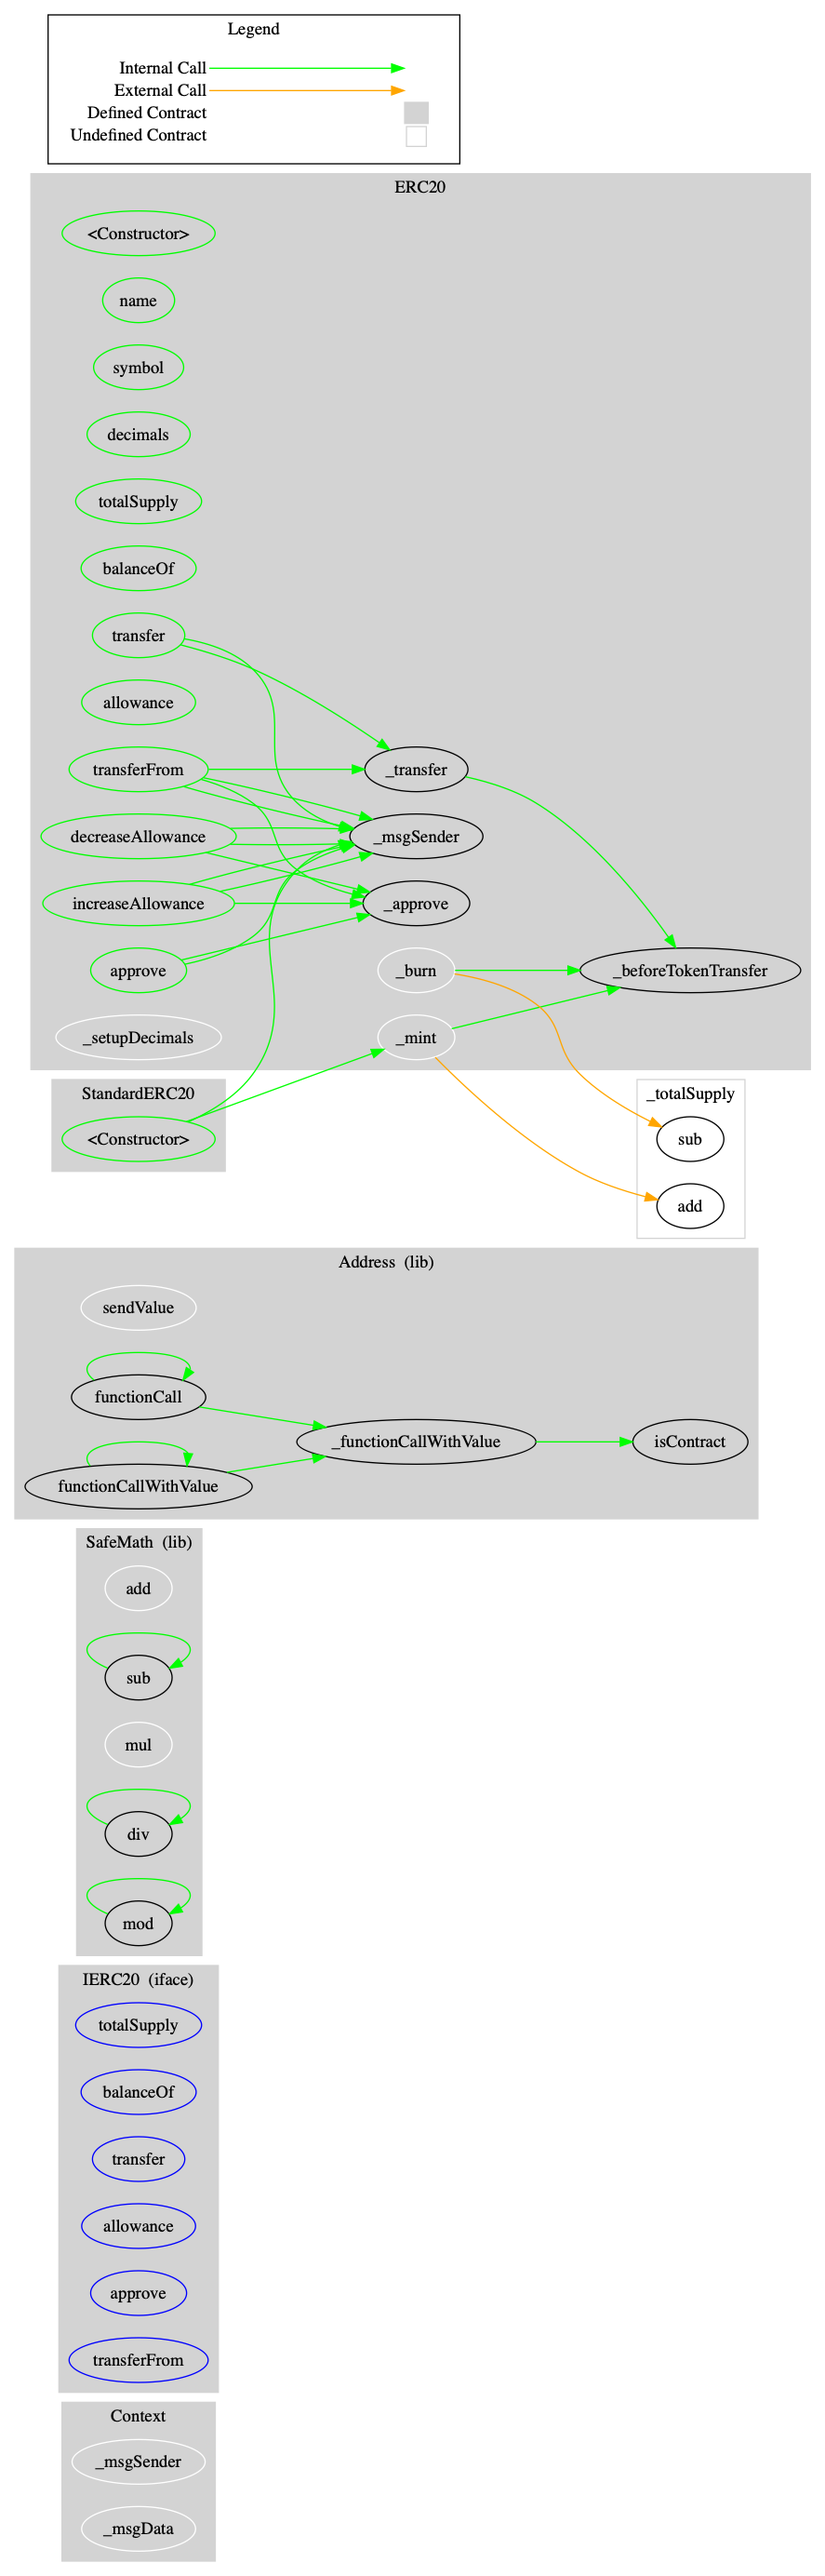
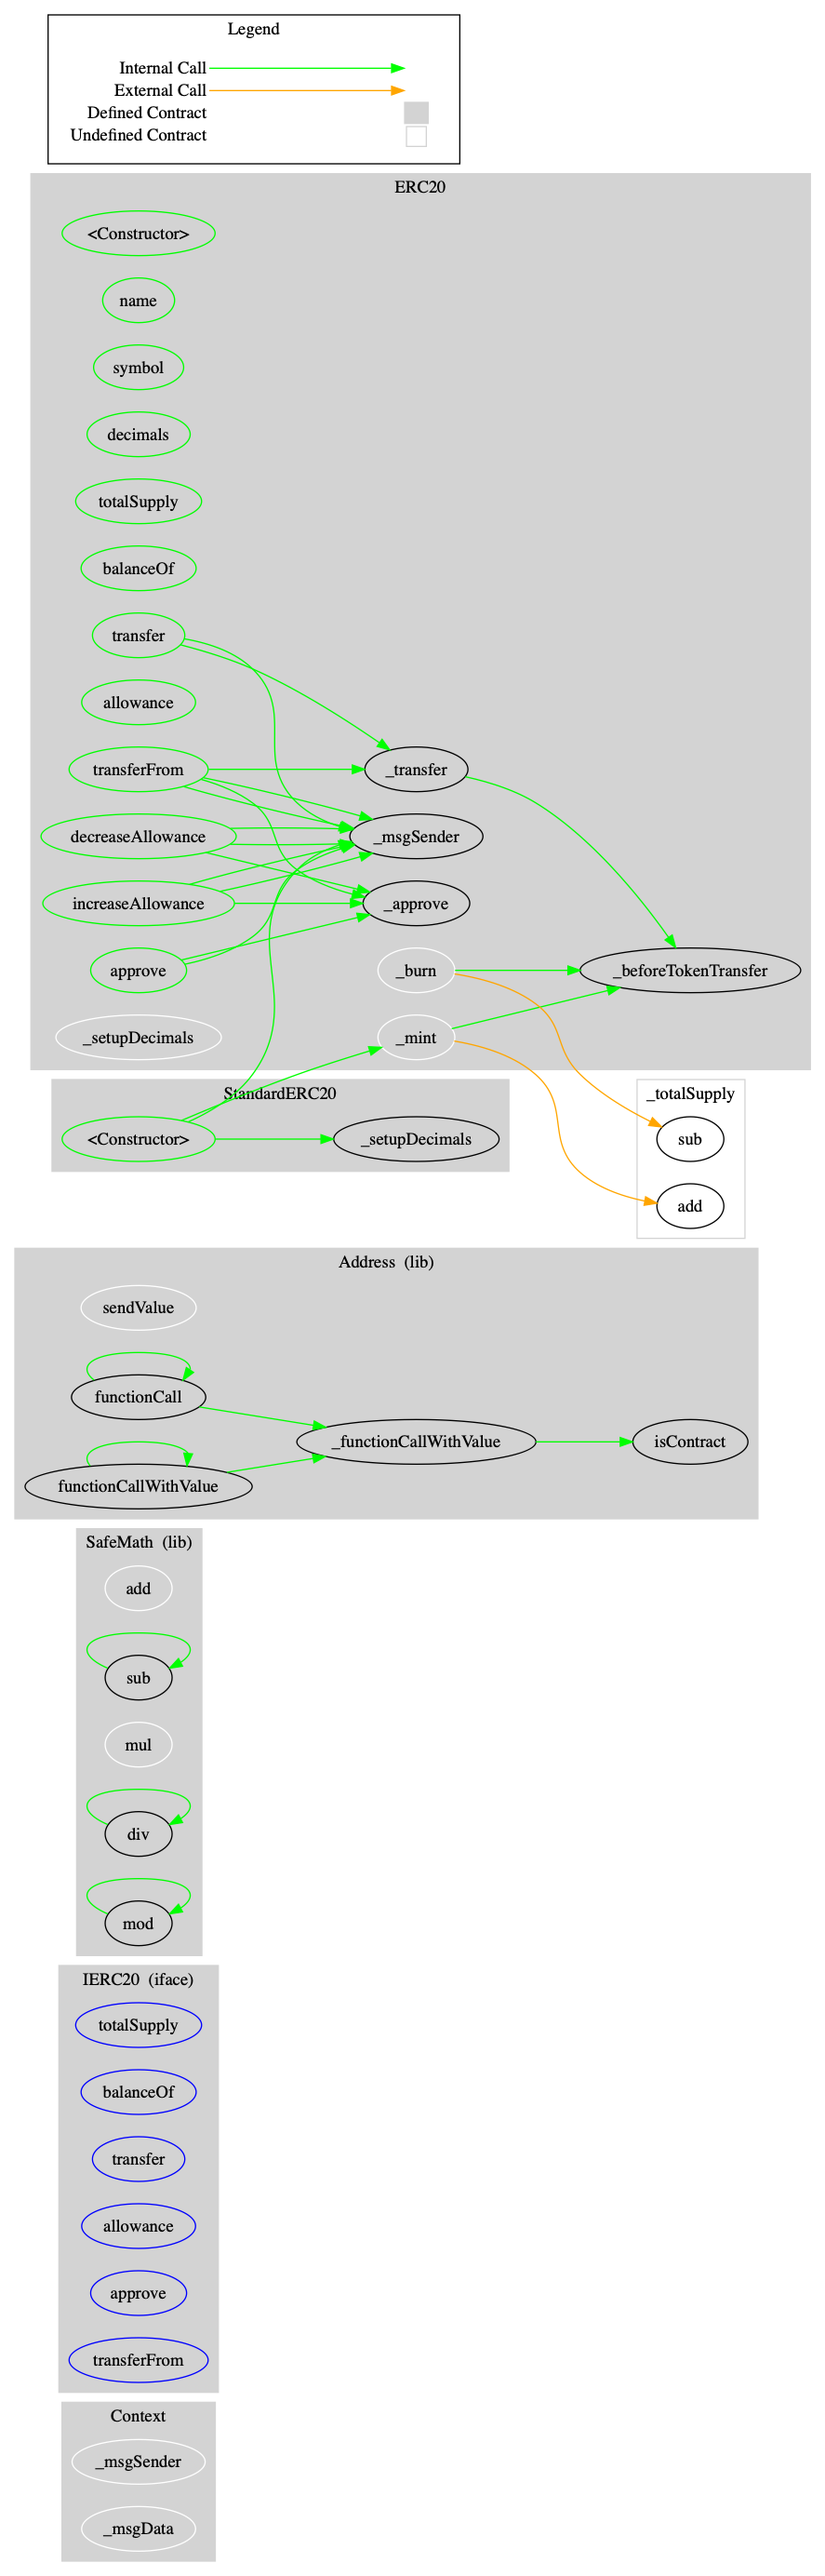
feat: make standard token able to set decimals

Changed region(s): [[0.274, 0.4039, 0.6392, 0.466]]

diff --git a/test/token/StandardERC20.test.js b/test/token/StandardERC20.test.js
@@ -7,14 +7,14 @@ const StandardERC20 = artifacts.require('StandardERC20');
 contract('StandardERC20', function ([owner, recipient, thirdParty]) {
   const _name = 'StandardERC20';
   const _symbol = 'ERC20';
-  const _decimals = new BN(18);
+  const _decimals = new BN(8);
   const _initialSupply = new BN(100000000);
 
   context('creating valid token', function () {
     describe('without initial supply', function () {
       it('should fail', async function () {
         await expectRevert(
-          StandardERC20.new(_name, _symbol, 0),
+          StandardERC20.new(_name, _symbol, _decimals, 0),
           'StandardERC20: supply cannot be zero',
         );
       });
@@ -25,6 +25,7 @@ contract('StandardERC20', function ([owner, recipient, thirdParty]) {
         this.token = await StandardERC20.new(
           _name,
           _symbol,
+          _decimals,
           _initialSupply,
           { from: owner },
         );
@@ -47,6 +48,7 @@ contract('StandardERC20', function ([owner, recipient, thirdParty]) {
       this.token = await StandardERC20.new(
         _name,
         _symbol,
+        _decimals,
         _initialSupply,
         { from: owner },
       );

diff --git a/analysis/description-table/StandardERC20.md b/analysis/description-table/StandardERC20.md
@@ -5,7 +5,7 @@
 
 |  File Name  |  SHA-1 Hash  |
 |-------------|--------------|
-| dist/StandardERC20.dist.sol | 49cde6e1bd3fddcb6d1759e542556b3d149f8e60 |
+| dist/StandardERC20.dist.sol | 687e4815d952126dae77bc514acc38172f183cb0 |
 
 
 ### Contracts Description Table
